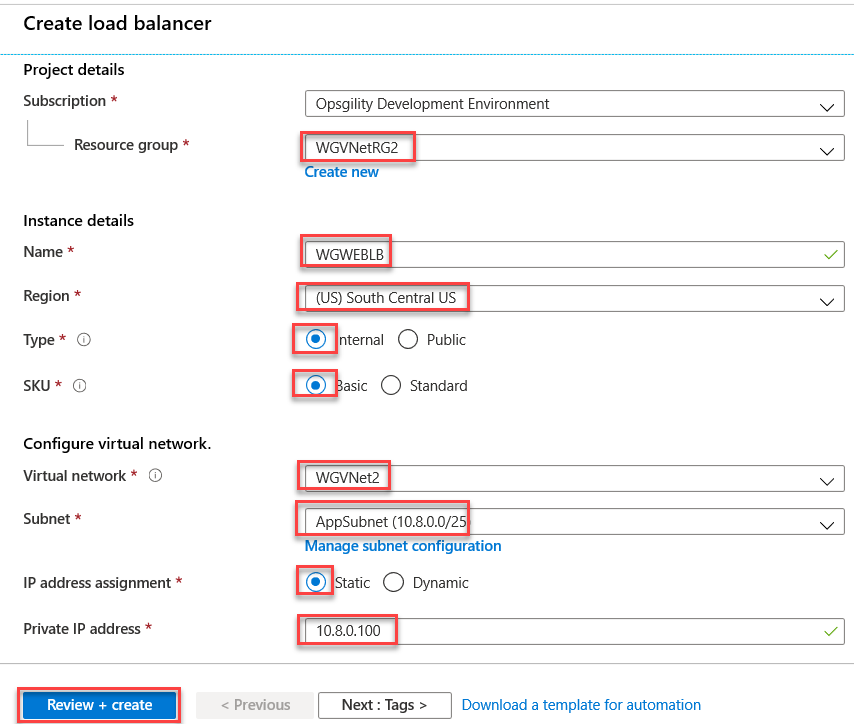
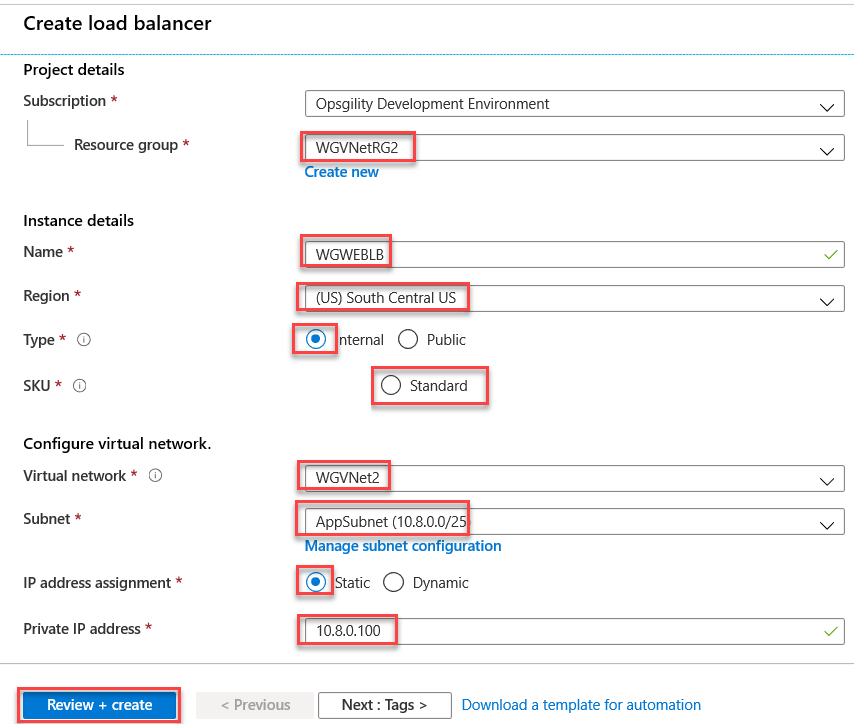
Issue #67 fix

Changed region(s): [[0.3349, 0.4862, 0.5785, 0.5773]]

diff --git a/Hands-on lab/HOL step-by-step - Enterprise-class networking in Azure.md b/Hands-on lab/HOL step-by-step - Enterprise-class networking in Azure.md
@@ -591,7 +591,7 @@ In this exercise, you will create and configure a load balancer to distribute lo
 
     -  Type: **Internal**
 
-    -  SKU: **Basic**
+    -  SKU: **Standard**
 
     -  Virtual network: **WGVNet2**
 
